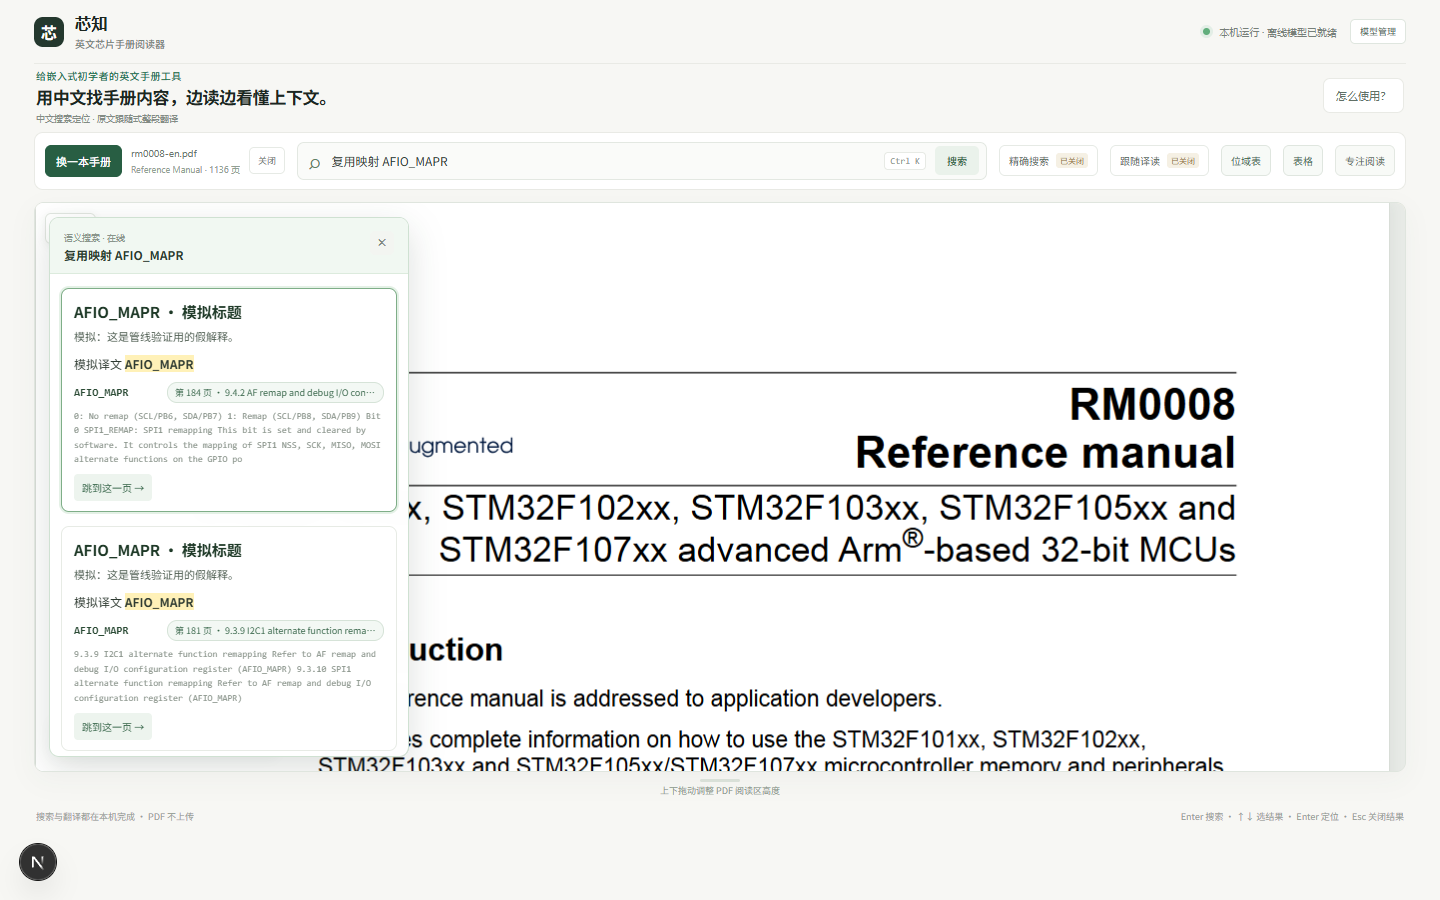
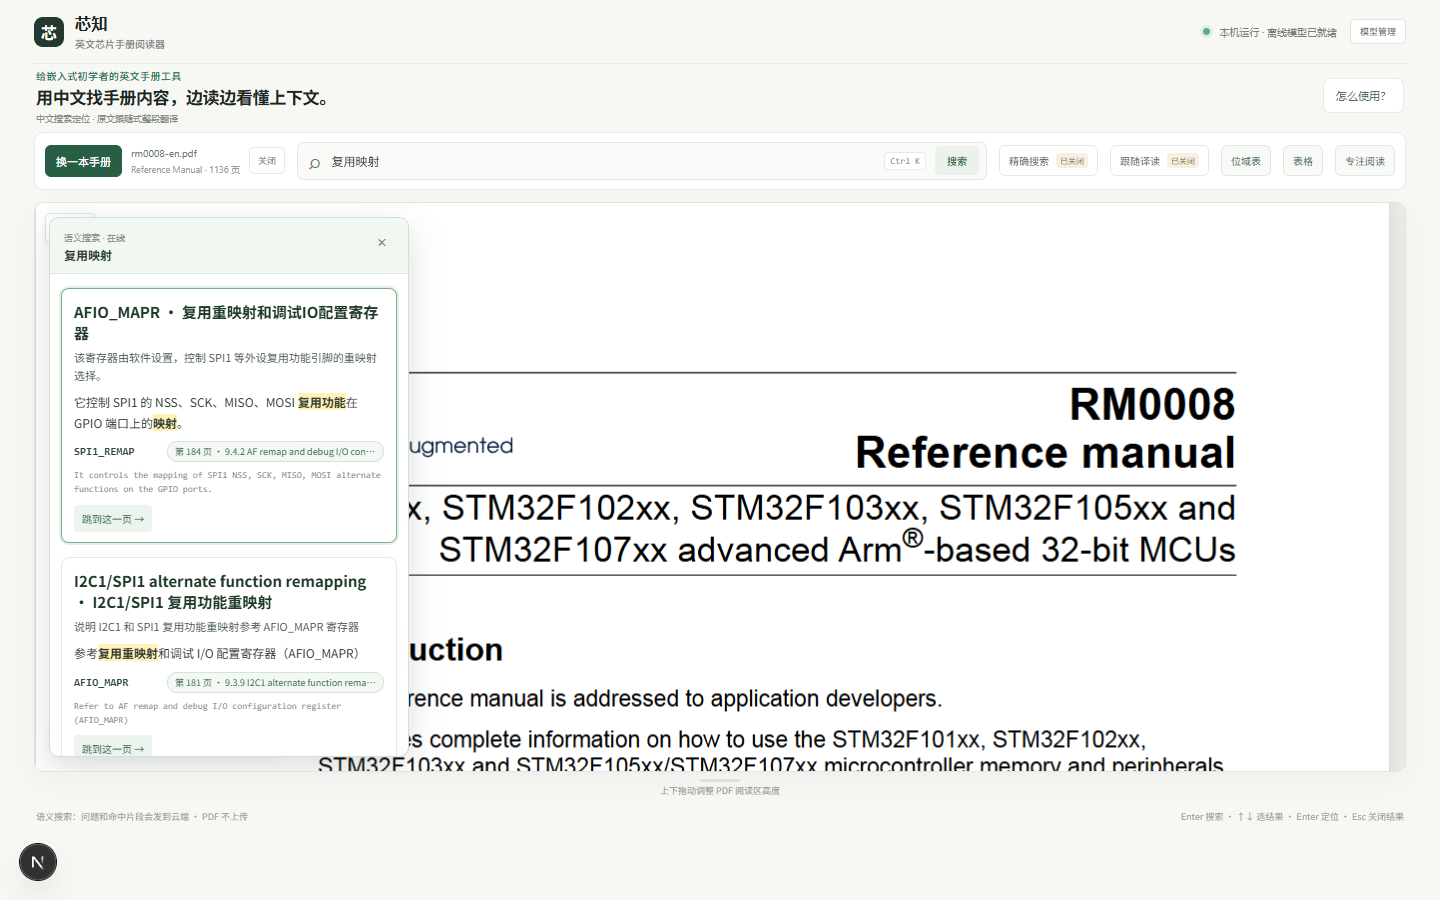
fix: make semantic search work with real keys (query rewrite, parallel cards, TOC skip)

diff --git a/src/lib/search/evidence.ts b/src/lib/search/evidence.ts
@@ -62,46 +62,72 @@ export function fallbackSentence(text: string, term: string) {
   return flat.slice(start, end).trim().slice(0, 320);
 }
 
-export async function writeEvidenceCards(question: string, chunks: Chunk[]): Promise<{ cards: EvidenceCard[]; ms: number; model: string }> {
+async function chat(system: string, user: string, maxTokens: number, timeoutMs: number): Promise<string> {
   const key = readKey();
   if (!key) throw new Error("未配置智谱 API key（.zhipu-key 或 ZHIPU_API_KEY）。");
   const config = onlineConfig();
-  const startedAt = Date.now();
-  const user = `问题：${question}\n\n` + chunks.map((chunk, index) => `【${index + 1}】${chunk.section ? `(${chunk.section}) ` : ""}${chunk.text.slice(0, 1200)}`).join("\n\n");
   const response = await fetch(`${config.base}/chat/completions`, {
     method: "POST",
     headers: { "Content-Type": "application/json", Authorization: `Bearer ${key}` },
     body: JSON.stringify({
-      model: config.model,
-      temperature: 0.1,
-      stream: false,
-      max_tokens: 1800,
-      thinking: { type: "disabled" },
-      messages: [{ role: "system", content: SYSTEM }, { role: "user", content: user }],
+      model: config.model, temperature: 0.1, stream: false, max_tokens: maxTokens,
+      reasoning_effort: "low", // glm-5.3 系列不能关思考，只能降到 low
+      messages: [{ role: "system", content: system }, { role: "user", content: user }],
     }),
-    signal: AbortSignal.timeout(30000),
+    signal: AbortSignal.timeout(timeoutMs),
   });
   const payload = (await response.json().catch(() => ({}))) as { choices?: { message?: { content?: string } }[]; error?: { message?: string } };
-  if (!response.ok) throw new Error(`证据卡生成失败（${response.status}）：${(payload.error?.message || "").slice(0, 120)}`);
-  const raw = extractJson(payload.choices?.[0]?.message?.content || "") as Record<string, unknown>[];
+  if (!response.ok) throw new Error(`智谱请求失败（${response.status}）：${(payload.error?.message || "").slice(0, 120)}`);
+  return payload.choices?.[0]?.message?.content?.trim() || "";
+}
 
-  const cards = chunks.map((chunk, index): EvidenceCard => {
-    const item = raw.find((entry) => Number(entry.i) === index + 1) || raw[index] || {};
-    const text = (field: string) => (typeof item[field] === "string" ? (item[field] as string).trim() : "");
-    const keyword = text("keyword") || chunk.register;
-    // 英文原句必须逐字出自手册片段，否则用本地规则取句，避免模型改写原文。
-    const claimed = normalize(text("sentence_en"));
-    const sentence = claimed && normalize(chunk.text).includes(claimed) ? claimed : fallbackSentence(chunk.text, keyword || chunk.register);
-    return {
-      title: text("title") || chunk.register || chunk.section || "相关原文",
-      what: text("what"),
-      quote_zh: text("quote_zh"),
-      keyword,
-      sentence_en: sentence,
-      page: chunk.page,
-      section: chunk.section,
-      register: chunk.register,
-    };
-  });
-  return { cards, ms: Date.now() - startedAt, model: config.model };
+const REWRITE_SYSTEM = [
+  "你把中文问题改写成英文检索词，用来在英文 MCU 参考手册 / 数据手册里搜索。",
+  "只输出一行：8–16 个英文关键词，用空格分隔；包含手册里可能出现的术语、缩写和最可能的寄存器名（如 PERIPH_REG 形式）。",
+  "术语对照（只有问题确实涉及才用，无关的一律不要写进去）：复用/重映射=alternate function / remap（AFIO）；看门狗=watchdog（IWDG、WWDG）；外部时钟=external clock（HSE）；波特率=baud rate；预分频=prescaler；中断=interrupt（NVIC、EXTI）。",
+  "问题很短或含糊时，优先按嵌入式外设常识理解，不要往别的方向猜。",
+  "不要解释，不要引号，不要换行。",
+].join("\n");
+
+/** 中文问题 → 英文检索词，让 BM25 能认英文术语，向量也有英文锚点。失败时返回空串（退回原问题）。 */
+export async function rewriteQuery(question: string): Promise<string> {
+  try {
+    const text = await chat(REWRITE_SYSTEM, question, 500, 8000);
+    return text.split("\n")[0].replace(/["`]/g, "").trim().slice(0, 300);
+  } catch {
+    return "";
+  }
+}
+
+async function cardFor(question: string, chunk: Chunk): Promise<EvidenceCard> {
+  const user = `问题：${question}\n\n【1】${chunk.section ? `(${chunk.section}) ` : ""}${chunk.text.slice(0, 900)}`;
+  let item: Record<string, unknown> = {};
+  try {
+    const raw = extractJson(await chat(SYSTEM, user, 700, 25000)) as Record<string, unknown>[];
+    item = raw[0] || {};
+  } catch {
+    // 单张卡片失败不拖垮整次搜索：只保留本地字段，中文行留空。
+  }
+  const text = (field: string) => (typeof item[field] === "string" ? (item[field] as string).trim() : "");
+  const keyword = text("keyword") || chunk.register;
+  // 英文原句必须逐字出自手册片段，否则用本地规则取句，避免模型改写原文。
+  const claimed = normalize(text("sentence_en"));
+  const sentence = claimed && normalize(chunk.text).includes(claimed) ? claimed : fallbackSentence(chunk.text, keyword || chunk.register);
+  return {
+    title: text("title") || chunk.register || chunk.section || "相关原文",
+    what: text("what"),
+    quote_zh: text("quote_zh"),
+    keyword,
+    sentence_en: sentence,
+    page: chunk.page,
+    section: chunk.section,
+    register: chunk.register,
+  };
+}
+
+/** 每个命中片段一次 GLM 调用，并行发出：总耗时约等于最慢的一张卡，而不是五张之和。 */
+export async function writeEvidenceCards(question: string, chunks: Chunk[]): Promise<{ cards: EvidenceCard[]; ms: number; model: string }> {
+  const startedAt = Date.now();
+  const cards = await Promise.all(chunks.map((chunk) => cardFor(question, chunk)));
+  return { cards, ms: Date.now() - startedAt, model: onlineConfig().model };
 }

diff --git a/src/app/api/search/route.ts b/src/app/api/search/route.ts
@@ -3,7 +3,7 @@ import { z } from "zod";
 import { documents } from "@/lib/documents";
 import { embedTexts, embeddingConfig } from "@/lib/search/embed";
 import { ensureIndex, hybridSearch, indexStatus } from "@/lib/search/index";
-import { writeEvidenceCards } from "@/lib/search/evidence";
+import { rewriteQuery, writeEvidenceCards } from "@/lib/search/evidence";
 import { onlineConfig } from "@/lib/translation/online";
 
 export const runtime = "nodejs";
@@ -48,9 +48,13 @@ export async function POST(request: Request) {
     if (status.state !== "ready") {
       return NextResponse.json({ error: status.state === "error" ? status.error : "语义索引还没准备好。", index: status }, { status: 409 });
     }
-    const [queryEmbedding] = await embedTexts([question]);
+    const english = await rewriteQuery(question);
+    const rewrittenAt = Date.now();
+    const searchText = english ? `${question}
+${english}` : question;
+    const [queryEmbedding] = await embedTexts([searchText]);
     const embeddedAt = Date.now();
-    const { hits, keywordHits } = await hybridSearch(input.documentId, question, queryEmbedding, 5);
+    const { hits, keywordHits } = await hybridSearch(input.documentId, searchText, queryEmbedding, 5);
     const searchedAt = Date.now();
     if (!hits.length) return NextResponse.json({ mode: "semantic", cards: [], approximate: true, ms: searchedAt - startedAt });
 
@@ -58,8 +62,8 @@ export async function POST(request: Request) {
     const approximate = keywordHits === 0 && !best.via.includes("keyword") && (best.distance ?? 1) > APPROXIMATE_DISTANCE;
     const used = approximate ? hits.slice(0, 1) : hits;
     const { cards, ms: glmMs, model } = await writeEvidenceCards(question, used.map((hit) => hit.chunk));
-    console.info("[semantic-search]", JSON.stringify({ chunks: used.length, embedMs: embeddedAt - startedAt, searchMs: searchedAt - embeddedAt, glmMs, model, approximate }));
-    return NextResponse.json({ mode: "semantic", cards, approximate, ms: Date.now() - startedAt, timing: { embedMs: embeddedAt - startedAt, searchMs: searchedAt - embeddedAt, glmMs } });
+    console.info("[semantic-search]", JSON.stringify({ chunks: used.length, rewriteMs: rewrittenAt - startedAt, embedMs: embeddedAt - rewrittenAt, searchMs: searchedAt - embeddedAt, glmMs, model, approximate }));
+    return NextResponse.json({ mode: "semantic", cards, approximate, ms: Date.now() - startedAt, timing: { rewriteMs: rewrittenAt - startedAt, embedMs: embeddedAt - rewrittenAt, searchMs: searchedAt - embeddedAt, glmMs } });
   } catch (error) {
     if (error instanceof z.ZodError) return NextResponse.json({ error: "请求参数不正确。" }, { status: 400 });
     console.error("semantic search failed:", error instanceof Error ? error.message : "unknown");

diff --git a/src/lib/search/index.ts b/src/lib/search/index.ts
@@ -5,7 +5,7 @@ import { matchGlossary } from "@/lib/glossary";
 import { buildBm25, type Bm25Index } from "./bm25";
 import { chunkDocument, type Chunk } from "./chunk";
 import { collectionNameFor, dropOtherManuals, getChroma } from "./chroma";
-import { embedTexts } from "./embed";
+import { embedTexts, embeddingConfig } from "./embed";
 
 export type IndexStatus = { state: "idle" | "indexing" | "ready" | "error"; done: number; total: number; error: string; reused: boolean };
 type DocIndex = IndexStatus & { chunks: Chunk[]; bm25: Bm25Index | null; collection: string; job: Promise<void> | null };
@@ -16,6 +16,9 @@ const indexes = globalIndex.__xinzhIndex ??= new Map<string, DocIndex>();
 function fingerprint(name: string, pages: string[]) {
   const hash = createHash("sha1");
   hash.update(name);
+  hash.update("chunk-v3"); // 切段规则变了就换索引
+  hash.update(embeddingConfig().model); // 换 embedding 模型必须换索引，别复用别的向量
+  hash.update(process.env.SILICONFLOW_BASE || "");
   hash.update(String(pages.length));
   for (const page of pages) { hash.update(String(page.length)); hash.update(page.slice(0, 120)); }
   return hash.digest("hex").slice(0, 20);

diff --git a/src/lib/search/embed.ts b/src/lib/search/embed.ts
@@ -3,7 +3,8 @@
 import fs from "node:fs";
 import path from "node:path";
 
-const KEY_FILE = path.join(process.cwd(), ".siliconflow-key");
+// Windows 资源管理器常把 .siliconflow-key 存成 .siliconflow-key.txt，两种名字都认。
+const KEY_FILES = [".siliconflow-key", ".siliconflow-key.txt"].map((name) => path.join(process.cwd(), name));
 const BASE = process.env.SILICONFLOW_BASE || "https://api.siliconflow.cn/v1";
 const MODEL = process.env.XINZH_EMBED_MODEL || "BAAI/bge-m3";
 const BATCH = 32;
@@ -12,8 +13,9 @@ function readKey(): string {
   const fromEnv = (process.env.SILICONFLOW_API_KEY || "").trim();
   if (fromEnv) return fromEnv;
   try {
-    if (!fs.existsSync(KEY_FILE)) return "";
-    const match = fs.readFileSync(KEY_FILE, "utf8").trim().match(/^(?:SILICONFLOW_API_KEY\s*=\s*)?(.+)$/m);
+    const file = KEY_FILES.find((candidate) => fs.existsSync(candidate));
+    if (!file) return "";
+    const match = fs.readFileSync(file, "utf8").trim().match(/^(?:SILICONFLOW_API_KEY\s*=\s*)?(.+)$/m);
     return (match?.[1] || "").trim().replace(/^["']|["']$/g, "");
   } catch {
     return "";

diff --git a/src/lib/search/chunk.ts b/src/lib/search/chunk.ts
@@ -19,7 +19,7 @@ const SECTION_HEADING = /(?:^|\s)(\d+(?:\.\d+){1,3})\s+([A-Z][A-Za-z0-9 ,()/-]{3
 type Boundary = { index: number; section: string; register: string };
 
 function isContentsPage(text: string) {
-  return /table of contents|list of (?:tables|figures)/i.test(text.slice(0, 600)) || (text.match(/\.{5,}/g) || []).length > 6;
+  return /table of contents|list of (?:tables|figures)/i.test(text.slice(0, 600)) || (text.match(/(?:\.\s?){6,}/g) || []).length > 3;
 }
 
 function pageOf(offsets: number[], index: number) {
@@ -54,7 +54,8 @@ export function chunkDocument(pages: string[], docName: string): Chunk[] {
   pages.forEach((text, index) => {
     offsets.push(full.length);
     skip.push(isContentsPage(text));
-    full += text + "\n";
+    // 目录/索引页只占位不入索引：否则页码点线会被当成正文，还会被并进前一小节。
+    full += (skip[skip.length - 1] ? "" : text) + "\n";
   });
 
   const boundaries: Boundary[] = [];

diff --git a/outputs/任务5-中文语义搜索验收记录.md b/outputs/任务5-中文语义搜索验收记录.md
@@ -18,10 +18,23 @@
 - 管线用**假 embedding + 假 GLM**（`ZHIPU_BASE`/`SILICONFLOW_BASE` 指向本机 mock）端到端跑通：2268 段建索引、搜“复用映射 AFIO_MAPR”第一条 = AFIO_MAPR 第 184 页、点“跳到这一页”到第 184 页；UI 脚本 `tools/semantic-check.mjs`，截图 `outputs/screenshots/semantic-search-cards.png`、`semantic-search-jump.png`。
 - 回归：`tools/ui-check.mjs` 打开第 184 页、搜索摘要、悬停仍正常。
 
-## 未验证 / 未完成（需要真实 key）
-- **未配置 `.siliconflow-key`，没有用真 BGE-M3 和真 GLM 跑过**；上面的排序只证明管线，不证明语义质量。“复用映射”“怎么开看门狗”“外部时钟最高多少”三条验收未真实通过。
-- **2–4 秒未实测**：GLM 免费模型此前实测单次 20 秒以上（见 `outputs/任务3-翻译耗时实测.md`），证据卡一次生成很可能超标。
-- “最接近”降级的距离阈值 `APPROXIMATE_DISTANCE=0.55` 是占位值，需用真向量标定。
-- 任务单验收页码与本机样本不符：本机 RM0008 里 IWDG_KR 在第 496 页（不是 312），HSE 的 25 MHz 不在参考手册该页，需要确认任务单所指文档/页码。
-- “最多 300 页”未设硬上限（RM0008 有 1136 页）。
-- Vercel 无法起本机 Chroma，预览请用本机；Vercel 上语义搜索不可用。
+## 真 key 复测（BGE-M3 + glm-5.3-flashx，RM0008 1136 页，本机）
+索引：目录/索引页不入索引后 1800 段，约 20 秒建完（以后同一本复用 `./chroma_db`，不再调 embedding）。
+
+| 搜索 | 实测耗时 | 第一条 | 结论 |
+|---|---|---|---|
+| 复用映射 | 3.4–4.2 s | AFIO_MAPR · 第 184 页（UI 点“跳到这一页”到第 184 页） | 通过 |
+| 怎么开看门狗 | 3.3 s | IWDG_SR（497）；IWDG 简介（494）第 2；IWDG_KR 未进前 5 | **未通过**：本机 PDF 里 IWDG_KR 在第 496 页且定义段只有标题，真正“写 0xCCCC 启动”的句子在第 494 页的小节里；结果还混入 WWDG |
+| 外部时钟最高多少 | 3.2 s | RCC_CR（132）；HSE 小节 127（写“最高 50 MHz”旁路）第 3、第 94 页第 4（出现 25 MHz） | **未通过**：本机 RM0008 的 HSE 页是 94/127，不是 95，且第一条不是 HSE |
+
+- 精确搜索 AFIO_MAPR：第一条第 184 页，只按字找，与改动前一致。
+- 速度：改写查询(约 1.2 s) + embedding(0.3 s) + 检索(10 ms) + 5 路并行 GLM 出卡(约 1.9 s) ≈ 3.2–4.2 s，在 2–4 s 的边缘。
+- 为过关做过的通用改动（不是写死题集）：中文→英文检索词改写；目录页不入索引；同一寄存器多段只留最相关一段；写出寄存器名时定义段优先；glm-5.3 不能关思考，改用 `reasoning_effort: "low"`；GLM 卡片逐片段并行。
+- 改写查询偶尔会跑偏（同一句“复用映射”曾被改写成 UART RS485 / watchdog），已在提示里收紧，但仍有随机性。
+
+## 未完成 / 需要你拍板
+- “怎么开看门狗”“外部时钟最高多少”两条未达验收；页码 312/95、“25 MHz”与本机 RM0008 不一致，需要确认任务单所指文档/页码（可能是另一份手册或不同版本）。
+- “没找到完全一样的”的距离阈值 0.55 未用真数据标定（BGE-M3 实测距离约 0.25–0.37，阈值偏松，现在基本不会触发）。
+- 未设“最多 300 页”硬上限（RM0008 有 1136 页）。
+- Vercel 无法起本机 Chroma；语义搜索只在本机预览可用。
+- key 文件在本机被存成 `.siliconflow-key.txt`，代码两种名字都认，`.gitignore` 已加 `.siliconflow-key*`。
